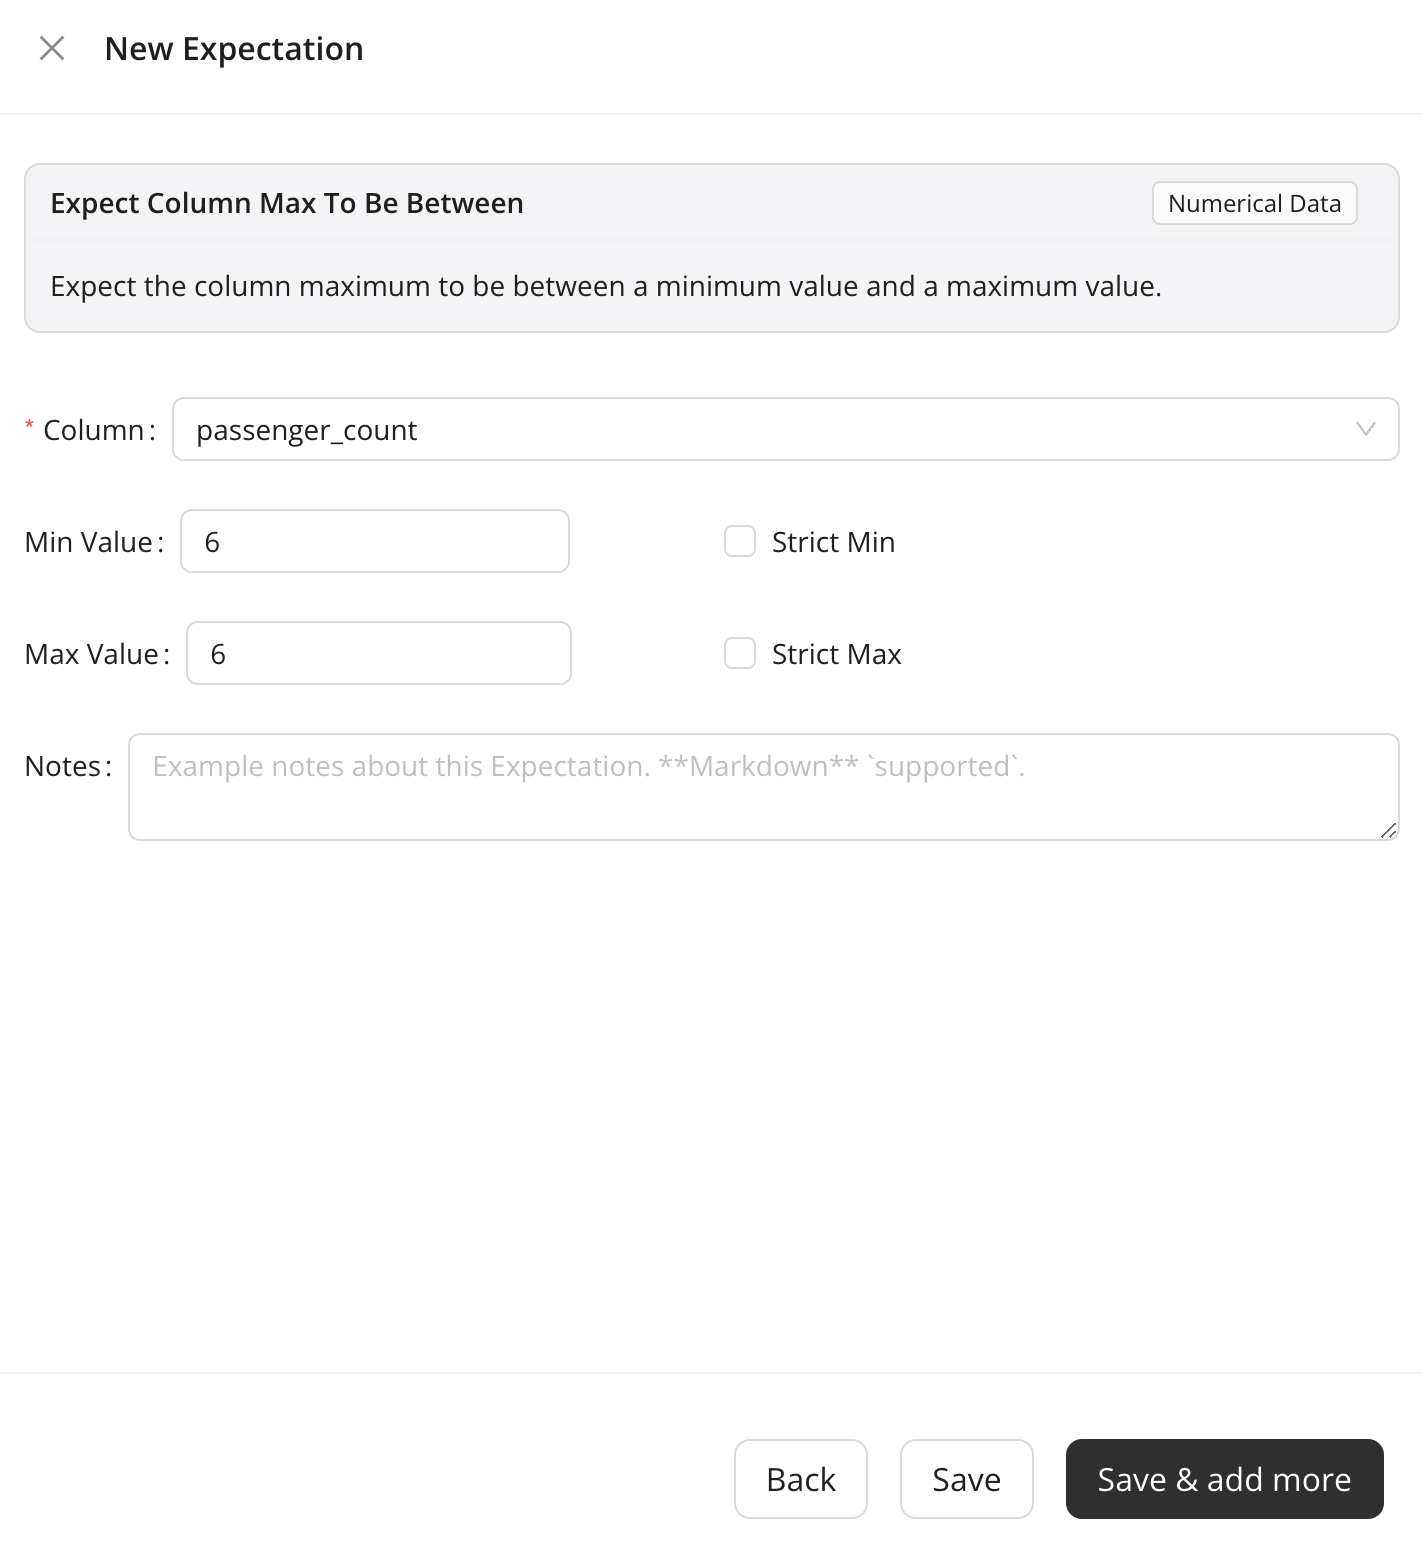
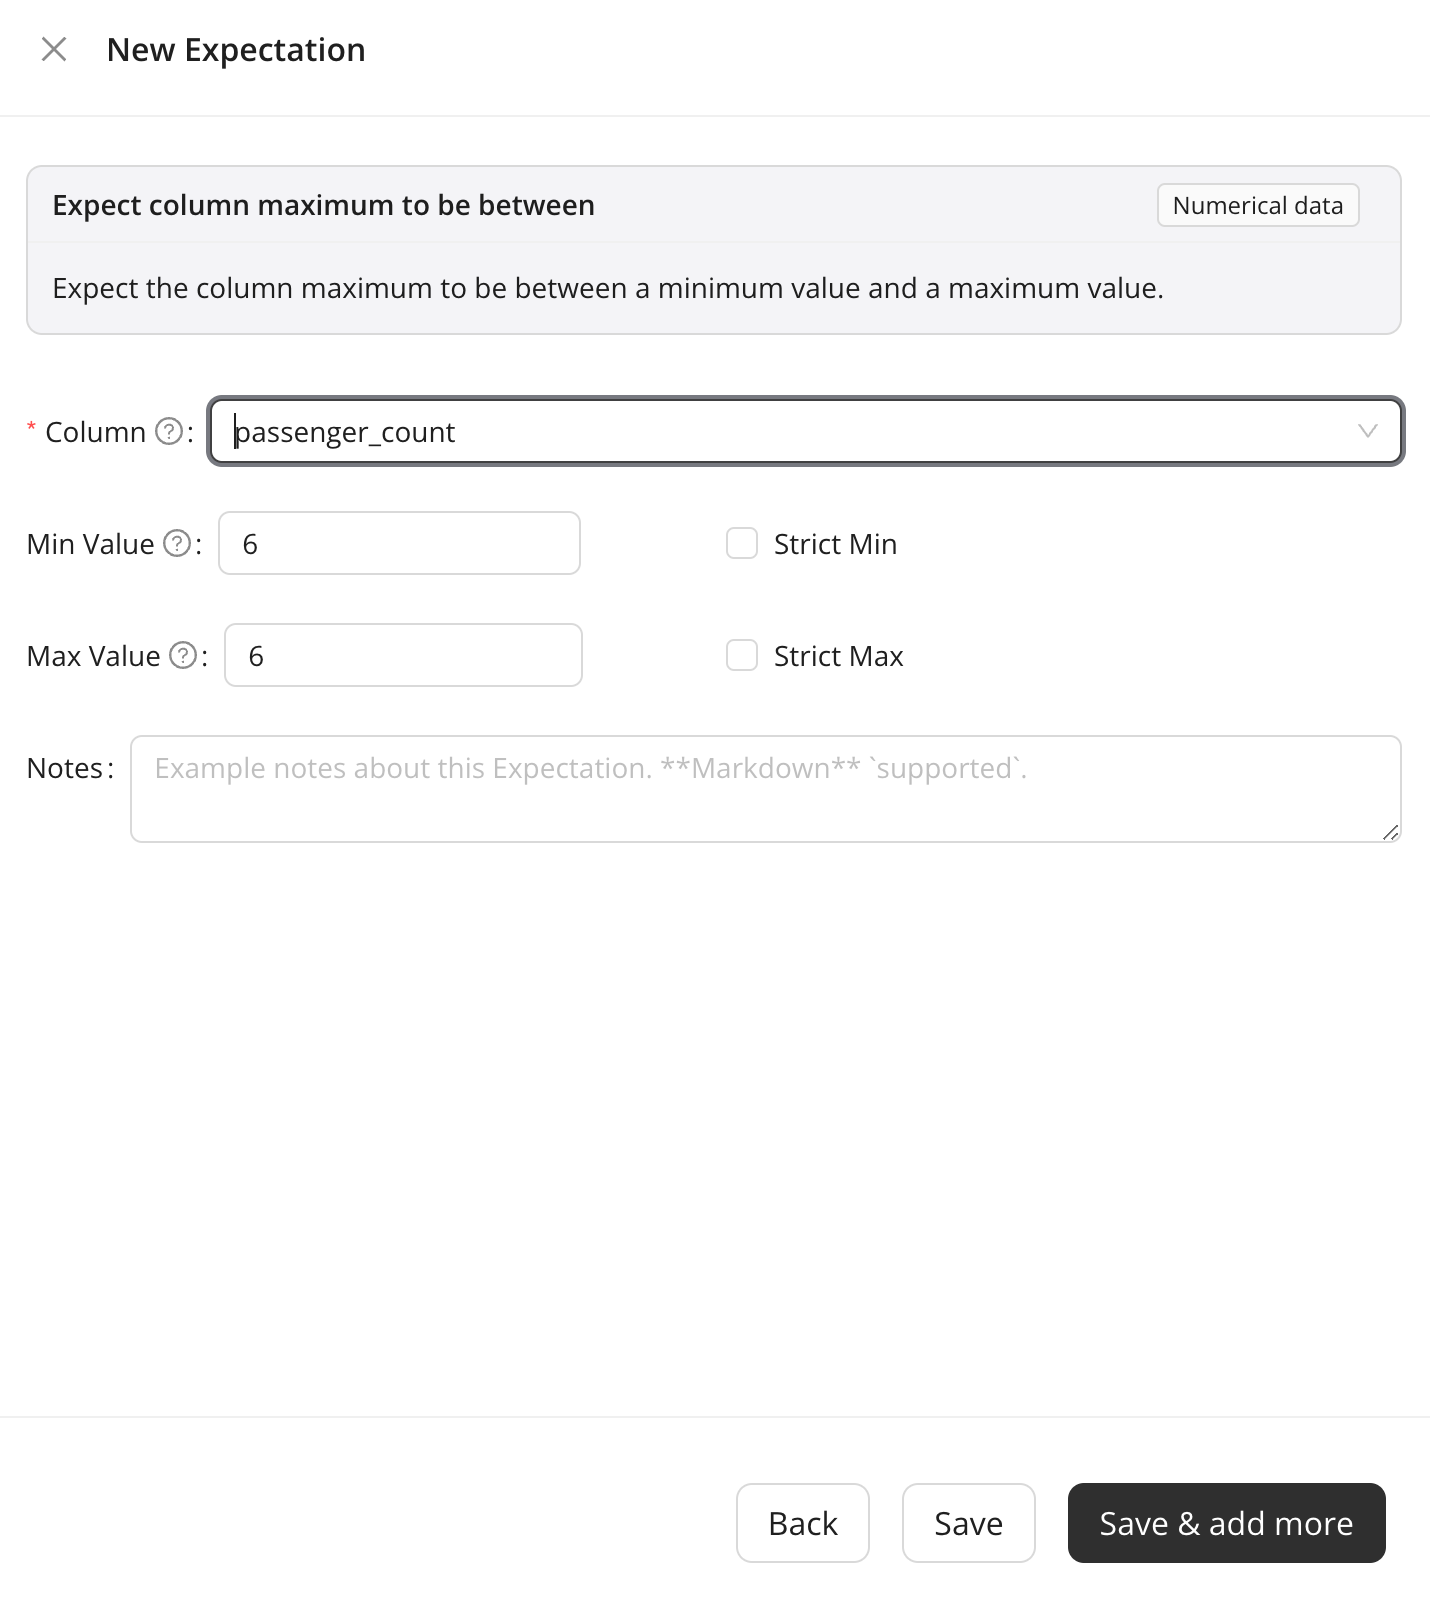
[DSB-1041] - update for latest GX Cloud (#15)
* [DSB-1041] - update for latest GX Cloud

This commit updates the Postgres workshop to reflect changes in the
latest GX Cloud UI and product features.

* [DSB-1041] - git is not needed

* [DSB-1041] - a few other updates

* [DSB-1041] wrong image

* [DSB-1041] remove another reference to the Agent

* Apply suggestions from code review

---------

diff --git a/get_started_with_gx_cloud_and_postgres/workshop.md b/get_started_with_gx_cloud_and_postgres/workshop.md
@@ -1,25 +1,21 @@
 # Get Started with GX Cloud and Postgres
 
-*This workshop content is current as of 26 June 2024.*
+*This workshop content is current as of 14 August 2024.*
 
 Welcome to our workshop! In this workshop, you'll learn how to connect your GX Cloud account to a Postgres Data Source, create Expectations, and run Validations.
 
 ## Prerequisites
 - A [GX Cloud](https://hubl.li/Q02ng2Jx0) account with Admin or Editor permissions.
-- [Docker Desktop](https://docs.docker.com/get-docker/) installed and [running](https://docs.docker.com/config/daemon/troubleshoot/#check-whether-docker-is-running) on the computer you're using for the workshop.
-- [git](https://git-scm.com/) installed on the computer you're using for this workshop.
 
 ## Agenda
 You'll complete the following tasks in this workshop:
 
 1. [Sign in to GX Cloud](#sign-in-to-gx-cloud)
-1. [Run the GX Agent and Postgres database](#run-the-gx-agent-and-postgres-database)
 1. [Create a Postgres Data Source and Data Asset](#create-a-postgres-data-source-and-data-asset)
 1. [Create Expectations](#create-expectations)
 1. [Validate Expectations](#validate-a-data-asset)
 1. [Update the failing Expectation and run the Validation again](#update-the-failing-expectation-and-run-the-validation-again)
 1. [Fetch Metrics](#fetch-metrics)
-
 
 ## GX terminology
 If you're new to GX, an understanding of the following [GX terminology](https://docs.greatexpectations.io/docs/reference/learn/glossary#) will be helpful as you complete this workshop.
@@ -29,52 +25,8 @@ If you're new to GX, an understanding of the following [GX terminology](https://
 ## Sign in to GX Cloud
 Sign in to [GX Cloud](https://hubl.li/Q02ng2Jx0).
 
-## Run the GX Agent and Postgres database
-The GX Agent is an intermediary between GX Cloud and your data stores. GX Cloud does not connect directly to your data; all data access occurs within the GX Agent. The GX Agent receives jobs from GX Cloud, executes these jobs against your data, and then sends the job results back to GX Cloud. The GX Agent runs in an environment where it has access to your data. Today, you'll run it on your local machine using Docker.
-
-To learn more about the GX Agent and how it works with GX Cloud, [see our GX Cloud architecture documentation](https://docs.greatexpectations.io/docs/cloud/about_gx#gx-cloud-architecture).
-
-### Get your user access token and organization identifier
-To allow the GX Agent to connect to your GX Cloud organization, you need to supply a user access token and organization identifier.
-
-If you are logging into GX Cloud for the first time, you will be presented with the following screen:
-<img src="../common/img/gx_agent_setup_splash_screen.png" alt="GX Agent setup splash screen" style="width:600px;"><br>
-
-You will use these values in the next step.
-
-1. Copy the value in the **Access token** field and store it in a safe location.
-1. Copy the value in the **Organization ID** field and store it with the user access token.
-
-### Start the GX Agent
-You will use Docker Compose to start and run the GX Agent and Postgres database.
-
-**Run the GX Agent and Postgres database using Docker Compose**
-> 1. Clone this workshop repo to your local machine.
->  ```bash
-> git clone https://github.com/greatexpectationslabs/workshops.git
-> ```
-> 2. `cd` to the `get_started_with_gx_cloud_and_postgres` subdirectory of the cloned repo.
-> 3. Using the following  command, replace `<your-organization-id>` and `<your_access-token>` with the values of your GX Cloud organization ID and access token, respectively from earlier. Execute this command in your terminal.
->  ```bash
-> GX_CLOUD_ORGANIZATION_ID="<your-organization-id>" GX_CLOUD_ACCESS_TOKEN="<your-access-token>" docker compose up
-> ```
->
-> :warning: If you are running Docker on Windows, use the following command instead to correctly set the environment variables:
-> ```bash
-> set GX_CLOUD_ORGANIZATION_ID="<your-organization-id>" && set GX_CLOUD_ACCESS_TOKEN="<your-access-token>" && docker compose up
-> ```
-
-Before starting the GX Agent, Docker will download the latest GX Agent and Postgres image. This might take a few minutes. When it is done, the Docker Compose output in your terminal displays `The GX Agent is ready`.
-
-<img src="img/docker_compose_gx_agent_is_ready.png" alt="Running and ready GX Agent" style="width:500px;"/><br>
-
-Additionally, you will see the Active Agent indicator displayed in the GX Cloud menu.
-
-<img src="../common/img/active_agent_indicator.png" alt="Active Agent indicator" style="width:200px;"/><br>
-
-
 ## Create a Postgres Data Source and Data Asset
-With the GX Agent running, you can connect to Postgres from GX Cloud (via the GX Agent).
+You'll need to connect to Postgres from GX Cloud. We have set up a publicly available AWS RDS instance for this workshop.
 
 > **Create a Postgres Data Source**
 > 1. In GX Cloud, click **Data Assets** > **New Data Asset**, if this is your first time using GX Cloud, the **Data Assets** page will prompt to create a **Data Source**.
@@ -82,7 +34,7 @@ With the GX Agent running, you can connect to Postgres from GX Cloud (via the GX
 > 1. Click the **I have created a GX Cloud user with access permissions** checkbox (you do not need to create a user for this workshop) and then **Continue**.
 > 1. Configure the PostgreSQL **Data Source** connection:
 >    * In the **Data Source name** field, enter a name. For example, `GX Workshop Postgres`.
->    * In the **Connection string** field, enter `postgresql+psycopg2://example_user@db/gx_example_db`.
+>    * In the **Connection string** field, enter `postgresql+psycopg2://example_user:workshop_example_password@workshops-gx-cloud.cvqgq2g6er9a.us-east-1.rds.amazonaws.com/gx_example_db`
 > 1. Click **Connect**.
 
 <img src="img/pg_data_source_create_user.png" alt="Check the GX Cloud user box" style="width:600px;"/><br>
@@ -90,9 +42,8 @@ With the GX Agent running, you can connect to Postgres from GX Cloud (via the GX
 <img src="img/add_pg_data_source.png" alt="Add a Postgres Data Source" style="width:600px;"/><br>
 
 > **Configure the GX Workshop Postgres Data Asset**
-> 1. In the **Table Name** field, enter `nyc_taxi_data`.
-> 1. In the **Data Asset name** field, give your data Asset a name. For example, `Taxi data`.
-> 1. Click **Finish**.
+> 1. On the **Select tables to import** page, check the box next to `nyc_taxi_data`.
+> 1. Click **Add 1 Asset**.
 
 <img src="img/add_pg_data_asset.png" alt="Add a Postgres Data Source" style="width:600px;"/><br>
 
@@ -101,7 +52,7 @@ Congratulations! You have successfully added a Postgres Data Asset to your GX Cl
 ## Create Expectations
 Expectations are a unique GX construct that enable you to make simple, declarative assertions about your data. You can think of Expectations as unit tests for your data. They make implicit assumptions about your data explicit, and they use self-explanatory language for describing data. Expectations can help you better understand your data and help you improve data quality.
 
-In GX Cloud, you create Expectations within an Expectation Suite, which is a collection of Expectations.
+In GX Cloud, you create Expectations for the Data Asset.
 
 The Postgres Data Asset table contains New York City (NYC) taxi data from January 2019. The [NYC Taxi data](https://www.nyc.gov/site/tlc/about/tlc-trip-record-data.page) is a popular set of open source data that contains records of completed taxi cab trips in NYC, including information such as pick up and drop off times, the number of passengers, the fare collected, and so on.
 
@@ -112,7 +63,7 @@ You'll create Expectations to validate the taxi data. New Expectations are selec
 Your first Expectation will expect that there is an associated vendor for each taxi trip. You expect that you should not see any null `vendor_id` values.
 
 > **Create your first Expectation**
-> 1. In the **Data Assets** list, click the `Taxi data` Data Asset.
+> 1. In the **Data Assets** list, click the `nyc_taxi_data` Data Asset.
 > 1. Click the **Overview** tab and then **New Expectation**.
 > 1. Click the **Expect Column Values To Not Be Null** Expectation.
 > 1. Create an Expectation that verifies that there is an associated vendor for each taxi trip:
@@ -149,7 +100,7 @@ You have successfully created two Expectations. Now, make sure that they pass as
 
 <img src="../common/img/validate_1.png" alt="Validate a Data Asset" style="width:800px;"/><br>
 
-After you click **Validate**, GX Cloud sends a job to your locally running GX Agent to run queries, based on the defined Expectations, against the data in Postgres. The GX Agent uses the query results to determine if the data fails or meets your Expectations, and reports the results back to GX Cloud.
+After you click **Validate**, GX Cloud runs queries based on the defined Expectations against the data in Postgres. GX Cloud uses the query results to determine if the data fails or meets your Expectations, and reports the results back to the UI.
 
 After validation is completed, a notification appears indicating that the Validation results are ready. To view the results, you can either click on the link provided in the notification, or click on the Data Asset **Validations** tab.
 
@@ -170,12 +121,12 @@ After the Expectation is updated, run the Validation again. When the notificatio
 
 <img src="../common/img/validation_result_2.png" alt="Validation results with all passing Expectations" style="width:700px;"/><br>
 
-## Fetch Metrics
-You might wonder if there is an easier way to create your Expectations, instead of making assumptions or manually inspecting the data. Thankfully, GX Cloud lets you fetch the metrics from your data directly, so that you don't have to!
+## Profile Data
+You might wonder if there is an easier way to create your Expectations instead of making assumptions or manually inspecting the data. Thankfully, GX Cloud lets you fetch the metrics from your data directly, so that you don't have to!
 
-When you fetch Metrics for a Data Asset, GX Cloud profiles the Data Asset through the GX Agent and returns a collection of descriptive metrics including column types, statistical summaries, and null percentages.
+When you profile the data for a Data Asset, GX Cloud profiles the Data Asset and returns a collection of descriptive metrics including column types, statistical summaries, and null percentages.
 
-> **Fetch Metrics for a Data Asset**
+> **Profile Data for a Data Asset**
 > 1. Click the Data Asset **Overview** tab. Basic information about your Data Asset is displayed in the **Data Asset Information** pane.
 > 1. Click the **Profile Data** button.
 
@@ -202,20 +153,10 @@ When you have fetched Metrics for a Data Asset, you can use the introspection re
 ## Conclusion
 Congratulations! You've successfully completed the GX Cloud Postgres Workshop. You have created a Postgres Data Source and Data Asset, created Expectations, run some Validations, and fetched Metrics for your data. We hope you have a better understanding of how GX Cloud works and how it can work within your data pipeline.
 
-## Stop the running GX Agent and Postgres database
-To stop the running GX Agent and Postgres database, spin down Docker Compose.
-
-> **Stop Docker Compose**
-> 1. `cd` to the `get_started_with_gx_cloud_and_postgres` subdirectory of this cloned repo.
-> 2. Execute the following command in your terminal:
->  ```bash
-> docker compose down
-> ```
-
 ## What's next?
 * [Connect to your own Postgres instance](https://docs.greatexpectations.io/docs/cloud/connect/connect_postgresql)
 * [Create your own Expectations in GX Cloud](https://docs.greatexpectations.io/docs/cloud/expectations/manage_expectations)
-* Use the [GX Python API](https://docs.greatexpectations.io/docs/oss/) to create Data Sources, Data Assets, Expectations, Expectation Suites, and Checkpoints
+* Use the [GX Python API](https://docs.greatexpectations.io/docs/oss/) to create Data Sources, Data Assets, and Expectations
 * Connect to GX Cloud from an orchestrator (for example, [Airflow](https://airflow.apache.org/))
 * [Invite others](https://docs.greatexpectations.io/docs/cloud/users/manage_users#invite-a-user) to work in your GX Cloud organization
 * Explore our [documentation](https://docs.greatexpectations.io/docs/cloud/)
